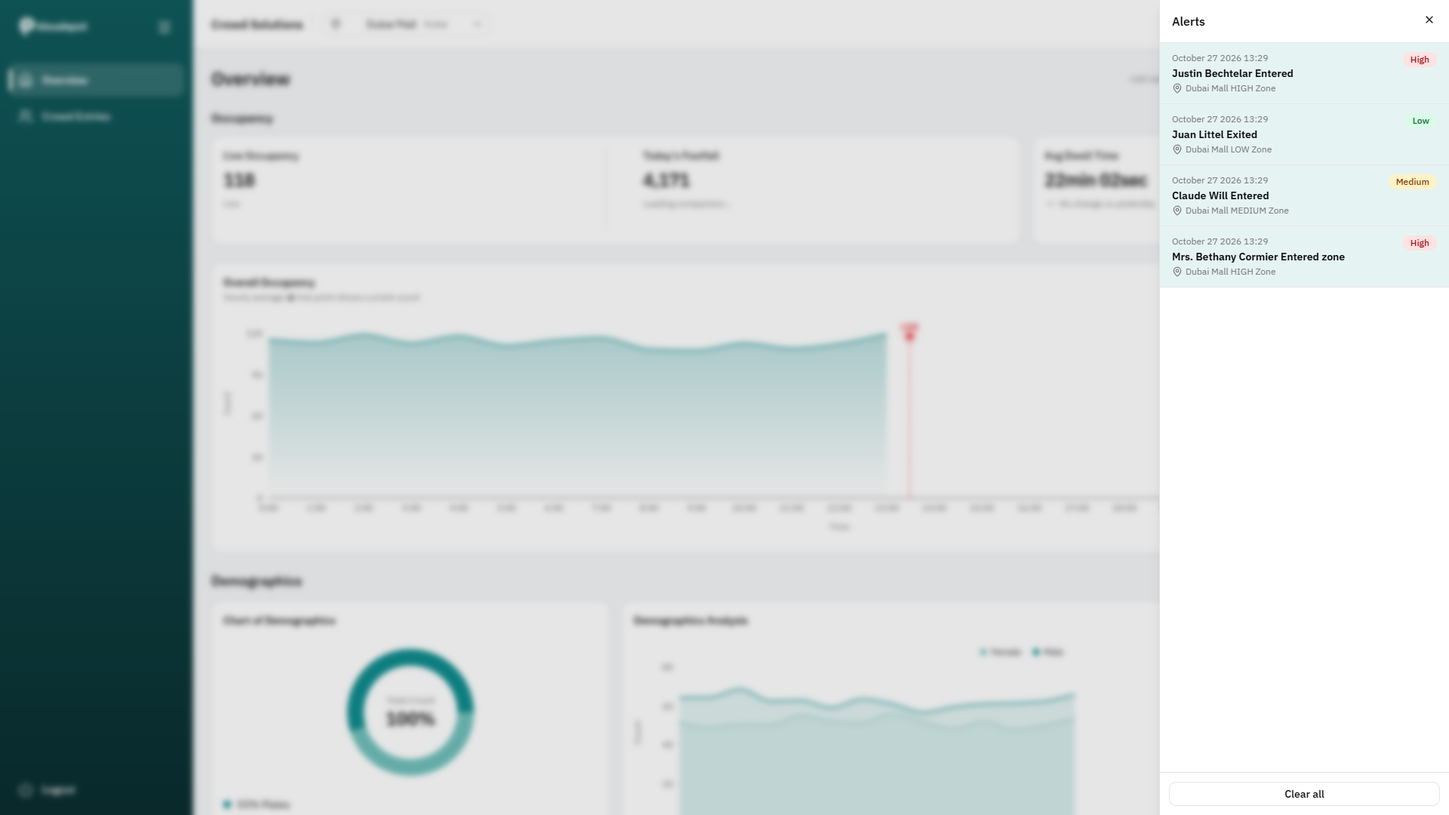
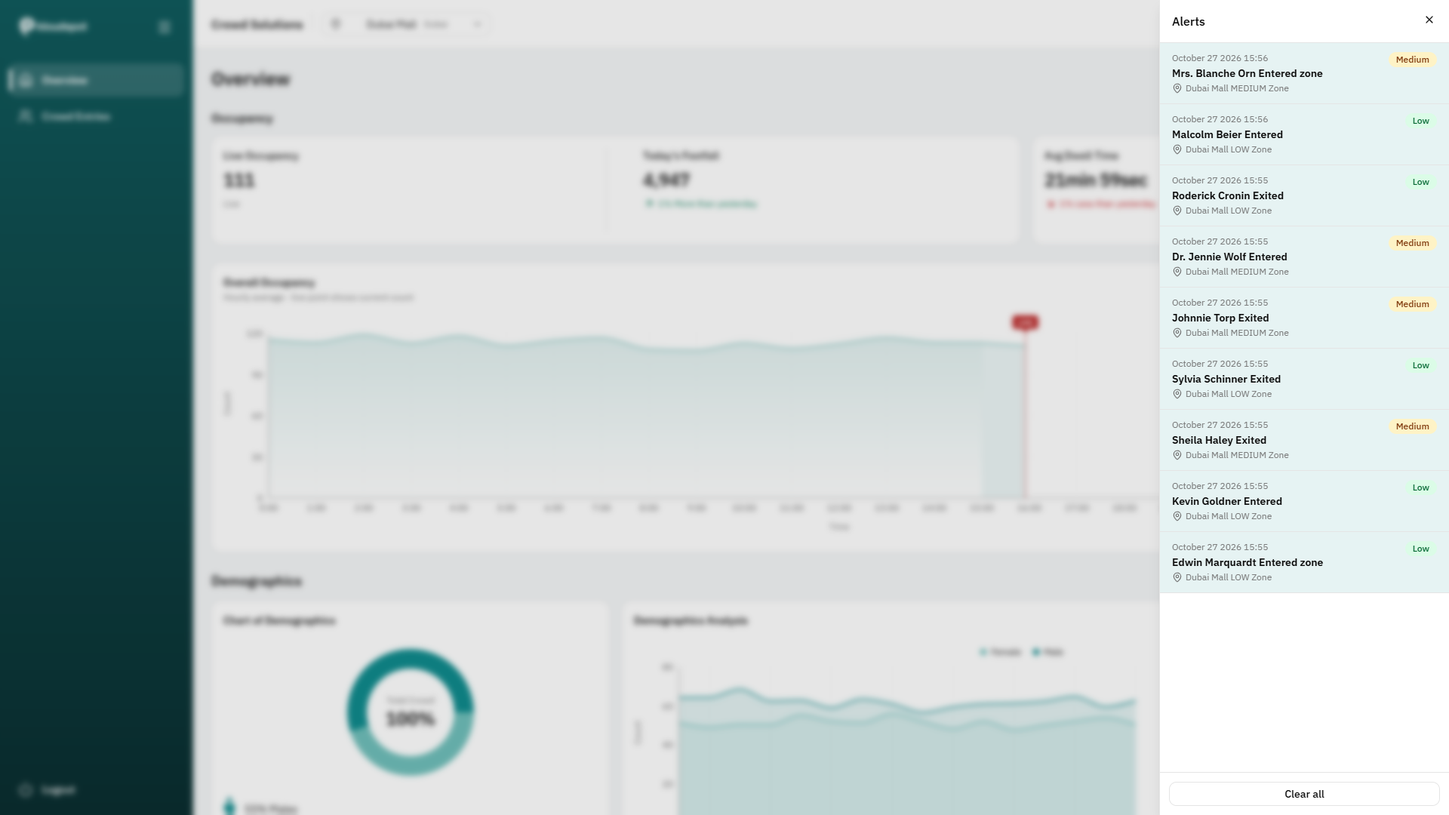
docs: add project screenshots and expand README documentation

diff --git a/README.md b/README.md
@@ -1,110 +1,327 @@
 # Crowd Management System
 
-A dashboard SPA for monitoring crowd occupancy, footfall, demographics and individual entries across sites, with a live Socket.IO layer for occupancy and alerts.
+A dashboard for watching how busy a set of sites is. It shows live occupancy, footfall and dwell time with comparisons against the previous period, a demographics breakdown, a paginated table of every entry and exit, and a stream of alerts that arrives over Socket.IO.
+
+Live demo: LIVE_URL_HERE
 
 | Login | Overview |
 | --- | --- |
-| ![Login](docs/login.png) | ![Overview](docs/overview.png) |
+| ![Login page](docs/login.png) | ![Overview page](docs/overview.png) |
 
-| Crowd Entries | Alerts drawer |
+| Crowd entries | Alerts drawer |
 | --- | --- |
-| ![Entries](docs/entries.png) | ![Alerts](docs/alerts.png) |
+| ![Crowd entries table](docs/entries.png) | ![Alerts drawer](docs/alerts.png) |
 
-**Live demo:** _not deployed yet._ `vercel.json` and `public/_redirects` are included, so a deploy to Vercel or Netlify works as-is (set `VITE_API_BASE_URL`).
+## What the assignment asked for and how I read it
 
-## Tech stack
+The scope was a login page, an overview dashboard, a crowd entries table and live alerts and occupancy through Socket.IO, all against an existing backend.
 
-| Concern | Choice | Why |
+A few requirements are easy to skim past, so I wrote down how I understood them:
+
+- The dashboard follows the API contract only. Every number on it comes from a response; nothing is computed from made-up data.
+- Live data must not be polled. The REST endpoints return history, and the socket carries what is happening now.
+- Every page except the login is protected, and every request except the login carries the JWT.
+- The stat cards show a comparison against the previous period ("more than yesterday"), so each card needs a second request for the previous range.
+- A visitor who is still inside has no exit time and no dwell time. The table shows a marker for that, not a zero.
+- Pagination has to be driven by the server. The API reports `totalRecords` and `totalPages`, and the client asks for one page at a time.
+
+## Tech stack and why
+
+| Area | Choice | Why |
 | --- | --- | --- |
-| UI | React 19 + TypeScript (strict) + Vite | fast dev loop, strict types catch contract drift |
-| Styling | Tailwind v4 + shadcn/ui (Radix) | accessible primitives, tokens as CSS variables |
-| Server state | TanStack Query | caching, de-duplication, `keepPreviousData` for pagination and filters |
-| Auth state | Redux Toolkit (auth only) | one small, predictable store for the session; all server data stays in Query |
-| Routing | React Router v7 | lazy routes, URL as the source of truth for filters |
-| Charts | Recharts via shadcn `chart` | lazy-loaded chunk |
-| Live data | socket.io-client | matches the backend |
-| Validation | zod | every API response and socket payload is validated at the boundary |
+| UI | React 19, TypeScript (strict), Vite | Fast feedback while building, and strict types catch API shape mistakes early. |
+| Styling | Tailwind CSS v4, shadcn/ui on Radix | Radix gives me focus handling, dialogs and selects that already behave correctly with a keyboard and a screen reader. I own the component code, so changing it is cheap. |
+| Routing | React Router 8 | Lazy routes and URL search params, which I use as the source of truth for filters. |
+| Server state | TanStack Query | Caching, de-duplicated requests, retry rules and `keepPreviousData` for pagination. |
+| Auth state | Redux Toolkit, auth only | The session is the one piece of global client state that several unrelated parts read. API data is deliberately kept out of Redux; see the decisions section. |
+| HTTP | Axios with interceptors | One place to attach the token and one place to react to a 401. |
+| Live data | socket.io-client | The backend speaks Socket.IO. |
+| Charts | Recharts through the shadcn chart wrapper | Gives me theme tokens and tooltip styling without writing SVG by hand. |
+| Forms and validation | react-hook-form, zod | zod validates the login form and every API response. |
+| Dates | `@date-fns/tz` and `Intl` | Time zone aware day boundaries, and display formatting without pulling in a formatter library. |
+| Smaller pieces | sonner (toasts), lucide-react (icons), jwt-decode | Toasts, icons and reading the token expiry. |
 
 ## Getting started
 
+Node 24 was used for development. I did not pin an `engines` field, so any current LTS should work.
+
 ```bash
-npm install            # .npmrc sets legacy-peer-deps (peer conflict in @hookform/resolvers)
-cp .env.example .env   # set VITE_API_BASE_URL (VITE_SOCKET_URL is optional)
-npm run dev            # http://localhost:5173
+npm install
+cp .env.example .env
+npm run dev
 ```
 
 Sign in with the credentials provided by the hiring team.
 
-| Script | Purpose |
+| Script | What it does |
 | --- | --- |
-| `npm run dev` | dev server |
-| `npm run build` | type-check + production build |
-| `npm run preview` | serve the production build |
+| `npm run dev` | Vite dev server on port 5173 |
+| `npm run build` | Type-check with `tsc -b`, then production build |
+| `npm run preview` | Serve the production build locally |
 | `npm run lint` | ESLint |
+| `npm run format` | Prettier |
 
-Environment variables: `VITE_API_BASE_URL` (required), `VITE_SOCKET_URL` (optional, defaults to the API origin).
+Environment variables:
+
+```bash
+VITE_API_BASE_URL=   # required, base URL of the REST API
+VITE_SOCKET_URL=     # optional, defaults to VITE_API_BASE_URL
+```
+
+`.npmrc` sets `legacy-peer-deps=true`. `@hookform/resolvers` declares a peer range that conflicts with the zod version I use, and the install fails without the flag. The setting is committed so a deploy does not hit the same error.
 
 ## Architecture
 
+### System overview
+
+```mermaid
+flowchart TD
+  Browser["Browser SPA"] --> Router["Router and route guards"]
+  Router --> Pages["Pages: Login, Overview, Entries"]
+  Pages --> Features["Feature modules: auth, sites and filters, analytics, entries, live"]
+
+  Features --> RQ["TanStack Query"]
+  Features --> Sock["Socket provider"]
+  Features --> Redux["Redux auth store"]
+
+  RQ --> Axios["Axios instance with JWT interceptor"]
+  Axios --> RestApi[("REST API")]
+  Sock --> SocketServer[("Socket.IO server")]
+
+  Sock --> LiveCache["Live occupancy in query cache"]
+  Sock --> Alerts["Alerts slice in Redux"]
+  Redux --> Axios
+  Redux --> Sock
+```
+
+### Auth flow
+
+```mermaid
+sequenceDiagram
+  participant U as User
+  participant App as App
+  participant API as REST API
+  U->>App: Open a protected page
+  App->>U: No token, redirect to login and remember the page as from
+  U->>App: Submit credentials
+  App->>API: POST login
+  API-->>App: Token
+  App->>App: Store token, start expiry timer
+  App->>U: Redirect to the remembered page
+  App->>API: Request with Authorization Bearer token
+  API-->>App: 401
+  App->>App: One logout: clear token and cache
+  App->>U: Redirect to login with from
+  Note over App: The expiry timer ends the session the same way
+```
+
+### Live data
+
+```mermaid
+flowchart LR
+  REST["REST: hourly occupancy history"] --> Chart["Occupancy chart"]
+  Socket["Socket events: live_occupancy and alert"] --> Filter["Keep events for the selected site"]
+  Filter --> Throttle["Write live total at most once per second"]
+  Throttle --> LiveCard["Live Occupancy card"]
+  Throttle --> Marker["Live marker on the chart"]
+  Filter --> AlertStore["Alerts store, newest first, capped at 50"]
+  AlertStore --> Bell["Bell count and alerts drawer"]
+```
+
+Nothing in the app polls. History comes from REST once per filter change, and everything live comes from the socket.
+
+### Folder structure
+
 ```
 src/
-  app/        providers, store, router, layout (sidebar, header, hotkeys)
-  config/     routes, navigation, date presets, hotkeys (single sources)
-  features/   auth | sites | filters | analytics | entries | live
-              each has components/, hooks/, api/, utils/ and an index.ts barrel
-  components/ shared presentational pieces + shadcn ui/
-  hooks/      generic hooks (media query, online status, hotkeys, CSV export)
-  lib/        http client + interceptors, query keys, date/format/csv utils
-  pages/      thin route components
+  app/          providers, store, router, layout (sidebar, header, shortcuts)
+  config/       route paths, nav items, date presets, hotkeys, assets
+  components/
+    ui/         shadcn/ui primitives
+    shared/     presentational pieces used by more than one feature
+  features/
+    auth/       login form, token handling, session, route guards
+    sites/      site list and the selector
+    filters/    site and range state, kept in the URL
+    analytics/  stat cards, occupancy and demographics charts
+    entries/    entries table, pagination state, CSV export
+    live/       socket provider, live occupancy feed, alerts bell and drawer
+  hooks/        small generic hooks (media query, online status, hotkeys)
+  lib/          http client, interceptors, query client and keys, date and format helpers
+  pages/        route components that only compose features
 ```
 
-Layers: `pages` compose `features`; features use `components/shared`, `hooks` and `lib`; components never call axios, only feature `api/` modules do.
+The rule I followed: a feature owns its API functions, hooks and components, `lib/` is generic infrastructure that knows nothing about features, and pages only compose.
 
-### Data flow
+### State management
 
-- **REST:** component -> feature hook (TanStack Query) -> `api/` module -> axios client -> zod-validated response -> mapper -> UI types.
-- **Live:** one `socket.io` connection (`SocketProvider`, mounted only in the protected layout). Events are parsed by `socketContract.ts` (the only file that knows the wire format).
-  - `live_occupancy` -> the site total is written to the query cache, throttled to one update per second. Only the Live Occupancy card and the chart's live point re-render.
-  - `alert` -> Redux alerts slice (newest first, capped at 50, deduped by `eventId`), shown in the bell and drawer.
-- **Auth:** login stores the JWT (Redux + `localStorage`). An axios interceptor adds `Authorization: Bearer`. A 401 on any request ends the session (store cleared, query cache cleared, redirect to login). A timer logs out at token expiry. Protected routes redirect to `/login`, and public routes redirect away when signed in. The socket is created from the token and torn down on logout.
-- **URL as state:** `?site=&range=&page=&size=`. Reloading or sharing a link restores the view.
+I kept four kinds of state apart on purpose.
+
+Server data lives in TanStack Query. Live data from the socket is written into the query cache (the occupancy total) or a small Redux slice (the alerts list). The session lives in Redux. Everything the user can change about what they are looking at, meaning the site, the date range, the page and the page size, lives in the URL (`?site=&range=&page=&size=`).
+
+I put filters in the URL so a refresh keeps the view, the back button steps through pages of the table, and a link can be shared and opens the same view.
+
+### API layer
+
+Each feature has an `api/` folder with small typed functions, and components never call Axios directly. Responses are validated with zod before anything else sees them. A single error normaliser (`lib/http/errors.ts`) turns any failure into an `ApiError` with a status and a readable message, and each widget shows its own error with a Retry button instead of taking the whole page down.
+
+### API integration
+
+| Method | Endpoint | Used for | Request body | Auth | Validated by |
+| --- | --- | --- | --- | --- | --- |
+| POST | `/api/auth/login` | Sign in | email and password | none | Token read by a hand-written check (`extractToken`) |
+| GET | `/api/sites` | Site list with time zone and zones | none | Bearer | zod normalisers in `features/sites/api/normalizers.ts` |
+| POST | `/api/analytics/footfall` | Footfall card | `siteId`, `fromUtc`, `toUtc` | Bearer | zod schema |
+| POST | `/api/analytics/dwell` | Average dwell card | `siteId`, `fromUtc`, `toUtc` | Bearer | zod schema |
+| POST | `/api/analytics/occupancy` | Hourly occupancy chart | `siteId`, `fromUtc`, `toUtc` | Bearer | zod schema |
+| POST | `/api/analytics/demographics` | Demographics charts | `siteId`, `fromUtc`, `toUtc` | Bearer | zod schema |
+| POST | `/api/analytics/entry-exit` | Entries table | same, plus `pageNumber` (1-based) and `pageSize` | Bearer | zod schema |
+
+Only the sites endpoint is a GET. Every analytics endpoint is a POST with a time range in epoch milliseconds.
+
+I used one Axios instance with interceptors so the Bearer header is attached in exactly one place, a 401 is handled in exactly one place, and every error leaves the HTTP layer in the same shape. The request interceptor skips the login call and rejects locally if there is no token. The response interceptor passes failures through the normaliser and calls a single unauthorized handler, which is de-duplicated so several in-flight 401s cause one logout. The default timeout is 15 seconds. The analytics calls use 40 seconds, because the backend answers them slowly and appears to queue them.
+
+Every response goes through a zod schema before the UI touches it. I worked out the contract by calling the backend, not from a spec I could trust, so I wanted a drift to show up as one clear message ("Received an unexpected response from the server") and not as a chart that throws on a missing field.
+
+### TypeScript approach
+
+`tsconfig.app.json` turns on `strict`, `noUncheckedIndexedAccess`, `noUnusedLocals`, `noUnusedParameters`, `erasableSyntaxOnly`, `noFallthroughCasesInSwitch` and `verbatimModuleSyntax`.
+
+API types come from the zod schemas with `z.infer`, so the runtime check and the compile-time type are the same definition and cannot drift apart. The UI uses its own models and maps API shapes to them in small pure functions (`features/analytics/utils/mappers.ts`, `features/entries/utils/mapEntry.ts`). Reusable components are generic where it matters (`DataTable<T>`, `ChartCard<TData>`, `QueryBoundary`) with typed props. Redux hooks are typed once in `app/hooks.ts`, and route paths and query keys come from `ROUTES` and a `queryKeys` factory so nobody retypes a string.
+
+In the source outside the generated shadcn files, the count of `any` is 0, of `@ts-ignore` 0 and of `@ts-expect-error` 0. There is one `eslint-disable`, for the `no-autofocus` rule on the first field of the login form, with the reason written next to it.
+
+### Component and hook reuse
+
+Shared building blocks that exist and where they are reused:
+
+- `DataTable` and `Pagination` (with `GoToPageForm` inside it) render the entries table and its pager.
+- `ChartCard` is the frame, loading state and error state for the occupancy chart and both demographics cards.
+- `StatCard`, `StatCardContainer` and `TrendIndicator` render each stat card, driven by a config list in `features/analytics/config/statCards.ts`.
+- `QueryBoundary` and `ErrorState` give every widget the same loading, error and retry behaviour.
+- `FilterSelect` backs the site selector, the date range selector and the rows-per-page selector.
+- `SeverityBadge` and `InitialsAvatar` appear in the entries table, and the badge is also used in the alerts drawer.
+- `RefreshButton`, `ExportButton` and `PageHeader` are small shared pieces.
+- `useAnalyticsQuery` is the one place that sets query options for all four analytics hooks, `useFilters` is read by 17 files, and `useSocketEvent` is how both live feeds subscribe.
+
+The rule I followed: presentational components take props and render, containers compose hooks, components never call Axios, logic lives in hooks, and lists such as navigation, date presets and stat cards come from config arrays.
 
 ## Key decisions and trade-offs
 
-- **Token in localStorage:** survives reloads, but is readable by any XSS. Mitigations: no `dangerouslySetInnerHTML`, validated inputs, the token is never logged, and short-lived expiry is enforced client-side. An httpOnly cookie would be better but needs backend support.
-- **Redux only for auth** (and small live UI state: the alerts list). Server data is never copied into Redux.
-- **Site time zone for days:** "Today" and "Yesterday" are evaluated in the selected site's IANA zone, not the browser's, so Dubai "today" is the same for everyone.
-- **Server pagination:** the API paginates; the client requests one page at a time and prefetches only the next.
-- **Memoisation where it matters:** hourly chart series are memoised and the live layer is separate, so socket updates do not re-render the chart or other cards. Alert list items are `memo`.
-- **Intl instead of date-fns format** for display, which keeps ~20 kB out of the bundle.
+**Time zone for "today".** Each site has an IANA time zone, and "today", "yesterday" and "last 7 days" are computed as day boundaries in that zone (`startOfSiteDay` in `lib/utils/date.ts`, using `TZDate`), then sent as UTC epoch milliseconds. If I used the browser's zone, a person in one country looking at a site in another would see a day that starts and ends at the wrong hours, and the same link would show different numbers on two machines. The cost is that the date selector shows the site's zone beside it, so the user knows which clock applies.
+
+**Hourly history plus one live marker.** The occupancy chart is hourly REST history. The live value comes from the socket and is drawn as a single "now" marker on the Today view, with a short connector from the last hourly point so the line does not stop short. I did not mix the two sources in one series and I did not poll the REST endpoints to fake a live feed, because those endpoints are slow, can be rate limited and are history by design. The live point is derived on the fly and is never written into the hourly data or the cache.
+
+**Socket instead of polling.** There is one connection, created only inside the protected layout, authenticated through the handshake, and torn down on logout. The server broadcasts every site's events, so the client filters by `siteId`. Live occupancy writes to the cache at most once per second. If the socket is down, REST data is unaffected, the Live Occupancy card falls back to the last hourly value with an "Hourly avg" caption, and the header shows "Reconnecting" or "Offline". When the connection comes back a toast says so.
+
+**Server-driven pagination.** The pager has previous, next, a numbered window with the first and last page, and a jump-to-page box behind the ellipsis. Page and size are in the URL. I prefetch only the next page after the current one has loaded, because entries take several seconds per page and prefetching more would queue requests behind the one the user is waiting for. Row keys combine person, entry time and zone, because the same person appears many times.
+
+**JWT in localStorage.** The API returns the token in the response body, so an httpOnly cookie was not available without a backend change. A token in `localStorage` can be read by any script that runs on the page, which makes XSS the main risk. What I did about it: no `dangerouslySetInnerHTML` in my own code (the shadcn chart wrapper uses it once, to inject colour variables from static config), every response and input validated, the token never logged or put in a URL, a client-side expiry timer, one global logout on a 401, and only an in-app path is accepted as the post-login redirect.
+
+**Comparison queries run after the primary ones.** The "than yesterday" indicators need a second range for footfall and dwell. The backend is slow and seems to process requests one after another, so firing all of them at once makes the cards wait behind the comparison. The comparison queries are enabled only after the current footfall and dwell have settled. A failed comparison removes only the trend line, not the card.
+
+**Redux only for auth.** I did not put API data in Redux because TanStack Query already owns caching, staleness and retries, and copying that into a store means keeping two copies in sync. The session is different: it is not fetched, several unrelated parts read it, and the token has side effects (storage, an expiry timer, the socket). The alerts list is also in Redux because it is live UI state and not something the server can be asked for again.
+
+## Performance and optimization
+
+**Code splitting.** `LoginPage`, `OverviewPage`, `EntriesPage` and `NotFoundPage` are `React.lazy` in `app/router.tsx`, with a `PageSkeleton` fallback. The app shell (`AppLayout`, with the sidebar, header and socket provider) is a lazy route as well, so the login page does not download it. Recharts is kept out of the initial load: `OccupancyChart`, `DemographicsChart` and `DemographicsDonut` are lazy, and `ChartCard` shows a chart-shaped skeleton while they load. The alerts drawer is lazy and is fetched the first time the bell is used. In the initial bundle on purpose: React, the router, TanStack Query, Radix (the login page uses it), Axios and zod, and Redux Toolkit.
+
+**Bundling.** `vite.config.ts` splits vendor code into groups so an app change does not invalidate cached libraries: `vendor-react`, `vendor-router`, `vendor-tanstack`, `vendor-radix` and `vendor-socket`. I did not give Recharts a group, because when I did the bundler pulled it into the initial preload. Vite also prints a warning that `advancedChunks` is deprecated in favour of `codeSplitting`; the option still works and I have not migrated it yet.
+
+Sizes from the current production build:
+
+| Chunk | Size | Gzip |
+| --- | --- | --- |
+| `vendor-react` | 218.75 kB | 68.27 kB |
+| `client` (Axios, zod and shared HTTP code) | 141.23 kB | 44.83 kB |
+| `vendor-radix` | 115.82 kB | 37.00 kB |
+| `vendor-router` | 94.56 kB | 30.91 kB |
+| `LoginPage` | 43.04 kB | 15.60 kB |
+| `index` (app entry) | 42.99 kB | 13.20 kB |
+| `vendor-socket` (lazy, with the app shell) | 41.16 kB | 12.85 kB |
+| `vendor-tanstack` | 34.94 kB | 10.23 kB |
+| Recharts chunk (lazy) | 274.03 kB | 82.51 kB |
+| `OverviewPage` (lazy) | 12.67 kB | 4.31 kB |
+| `EntriesPage` (lazy) | 15.57 kB | 5.89 kB |
+| `AlertsDrawer` (lazy) | 2.43 kB | 1.17 kB |
+
+The files `index.html` preloads add up to about 224 kB gzipped. For context, earlier in development the single main chunk was 685 kB, and it was about 501 kB after the live layer was added. Recharts at 274 kB (82 kB gzipped) is the largest piece, and it only loads on the Overview page.
+
+**Prefetching.** Hovering or focusing a sidebar link loads that page's chunk (`prefetchRoute` in `app/routeModules.ts`), so the first click does not wait on a download. The app shell chunk is not prefetched. The entries table prefetches only the next page.
+
+**Query caching.** The defaults in `lib/queryClient.ts` are a 30 second `staleTime`, no refetch on window focus, and retries only for network errors and 5xx responses, at most twice. Analytics queries use `staleTime: 0` with `refetchOnMount: 'always'`, are enabled only when the filters are ready, and do not keep previous data: when the site or range changes the cards and charts show skeletons, never numbers from the range the user just left. If the same range was loaded before, its cached data shows immediately while it refreshes. Entries keep the previous page while the next one loads. The site list is cached for ten minutes.
+
+**Render performance.** I did not wrap things in `memo` by habit. Where it is used:
+
+- The three chart components are `memo`, with their data, ticks and formatters in `useMemo` or `useCallback`, and their config objects and tooltip content at module scope, so a re-render of the parent does not rebuild the chart.
+- `DataTable`, `Pagination`, `EntriesToolbar` and `StatCardContainer` are `memo`, and their props are stable (columns in `useMemo`, handlers from `useCallback` or stable hook returns).
+- `AlertListItem` is `memo` and keyed by `eventId`, so one new alert does not re-render the list.
+- The socket context value is memoised.
+- The `select` functions of the analytics queries are `useCallback` so their results are not recomputed every render.
+
+I removed `memo` from small components such as the severity badge and avatar once I saw it bought nothing. I did not run the React profiler, so I can describe the design but not quote a measured render count. The design is that the live value reaches only the Live Occupancy card and the chart's live layer: the live feed writes a throttled value, `useIsLive` only changes when live data starts or stops, and the chart marker reads the value in its own small component outside the memoised chart.
+
+**Network behaviour.** The Overview load makes one request for sites and six for data: four analytics calls (footfall, dwell, occupancy, demographics) and two comparison calls (footfall and dwell for the previous range). The Entries page makes one entries request and then prefetches the next page. From what I observed, one analytics call takes about 1.5 to 3.5 seconds and one entries page about 3.5 to 4.8 seconds. The six Overview calls fired together finish in roughly 15 seconds, which is why those calls use the longer timeout.
+
+## UX and accessibility
+
+These exist in the code:
+
+- A skip link to the main content, and focus moves to the page heading when the route changes.
+- Visible focus rings, and a drawer that traps focus, closes on Escape and returns focus to the bell.
+- Keyboard shortcuts (`g o`, `g e`, `b`, `?`) that are ignored while typing in a field.
+- `aria-current` on the active nav item and the current page, and `aria-disabled` on pagination buttons so focus is not lost at the first and last page.
+- Charts are exposed as images with a text summary, plus a screen-reader-only data table. The live value is an extra row in that table.
+- Data tables have captions, and the stat labels use `dl`.
+- Polite live regions: the connection status, a pagination page announcement, and a summary of new alerts that is limited to once every five seconds.
+- Severity and trends always carry a text label, so colour is never the only signal.
+- `prefers-reduced-motion` is respected in CSS and in chart animation.
+- Every widget has a loading state, an empty state and an error state with Retry, and an offline banner appears when the browser reports it is offline.
+
+The layout is built for desktop first. I checked widths from 390 to 1920 pixels for horizontal overflow, and the page itself does not scroll sideways at any of them. On narrow screens the navigation moves into a sheet and the Zone column is hidden.
+
+## Error handling
+
+| Condition | What the user sees |
+| --- | --- |
+| No connection or timeout | "Can't reach the server. Check your connection and try again." |
+| 400 or 422 | "The request was invalid." |
+| 401 | Session cleared, a toast says the session expired, redirect to login |
+| 403 | "You don't have permission to do that." |
+| 404 | "We couldn't find what you were looking for." |
+| 429 | "Too many requests. Please wait a moment and try again." |
+| 5xx | "Something went wrong on our side. Please try again." |
+| Response fails zod validation | "Received an unexpected response from the server." |
+| Login with wrong credentials | "Invalid email or password." |
+
+A server-provided `message` or `errorMessage` is used when present. Each widget shows its error in place with a Retry button, so one failing request does not blank the page.
 
 ## API notes
 
-- Analytics endpoints are `POST` with `{ siteId, fromUtc, toUtc }` (epoch ms); entries add `pageNumber` (1-based) and `pageSize`.
-- Latency is high: each analytics call takes ~1.5-3.5 s and calls look serial, so the Overview's six requests take up to ~15 s. Slow calls use a 40 s timeout; comparison queries start after the primary ones.
-- There is no logout endpoint (`/api/auth/logout` returns 404), so logout is client-side.
-- Socket: same origin as the API; auth via the handshake `auth: { token }`; no subscribe emit; events `alert` and `live_occupancy` (`sim:event` mirrors `alert` and is ignored). Observed about 70 `alert` and 50 `live_occupancy` events per minute across all sites.
+- All analytics bodies use `{ siteId, fromUtc, toUtc }` in epoch milliseconds. The entries response carries `pageNumber`, `pageSize`, `totalRecords`, `totalPages` and `records`. A record with no `exitUtc` and no `dwellMinutes` is a visitor who is still inside.
+- `GET /api/sites` returns a bare array. Each site has an id, name, city, time zone and a list of zones.
+- Socket: auth goes in the handshake as `auth: { token }`. A Bearer header also works; a token in the query string is rejected. No subscribe or join message is needed. The events used are `alert` and `live_occupancy`. The server also sends `sim:event`, which mirrors `alert`, and the client ignores it. Because the server broadcasts every site, filtering by `siteId` happens in the client. I saw roughly 70 alerts and 50 occupancy events per minute across all sites combined.
+- There is no logout endpoint (`/api/auth/logout` returns 404), so logging out only clears the token and the cache in the browser.
+- The health endpoint requires a token even though the documentation lists it as public.
+- Latency is covered in the performance section.
 
-## Accessibility
+## Deployment
 
-Skip link to `<main>`; focus moves to the page heading on route change; visible focus rings; icon-only buttons have names; data tables have captions; charts are `role="img"` with a text summary plus a screen-reader data table (including the live value); pagination uses `aria-disabled` so focus is never lost; the alerts drawer traps focus, closes on Esc and returns focus to the bell; the live announcer is throttled; severity and connection state are never colour-only; `prefers-reduced-motion` is respected. An axe-core run (WCAG 2.1 AA + best practices) on login, overview, alerts drawer, shortcuts dialog and entries found one contrast issue (login button), which is fixed. Keyboard shortcuts: `g o`, `g e`, `b`, `?`.
+The app is a static build, meant for Vercel. Set `VITE_API_BASE_URL` (and `VITE_SOCKET_URL` if the socket lives somewhere else) in the project settings. `vercel.json` rewrites every path to `index.html`, and `public/_redirects` does the same for Netlify, so opening or refreshing `/entries` directly does not return a 404.
 
-## Performance
+## Known limitations and what I would do next
 
-- Pages, the app shell, the alerts drawer and the chart code are lazy chunks; vendor chunks (react, router, tanstack, radix, socket) are split for caching.
-- The login path loads about 213 kB gzip of JS (the app shell, socket client and Recharts are not loaded there).
-- Before this phase the single main chunk was 501.7 kB (159 kB gzip) with the shell eagerly included; it is now 271 kB (85 kB gzip) plus cached vendor chunks.
-- The Entries route is prefetched on sidebar hover/focus.
-- Lighthouse could not be run in this environment (headless Edge failed under the CLI); run `npx lighthouse http://localhost:4173 --preset=desktop` against `npm run preview` to record scores.
+- No automated tests were written, since they were outside the assignment's scope. I checked behaviour by hand and with throwaway browser scripts. Coverage for the zod schemas, the date range helpers and the alerts reducer is what I would add first.
+- The token is in `localStorage`. With a backend that can set an httpOnly cookie I would move to that.
+- I have no Lighthouse scores. Running it against the preview build did not work in my environment, so I make no performance score claims.
+- I never ran the React profiler, so the render isolation is by design and not measured. Profiling a socket event and a page change is the next check.
+- The initial load is about 224 kB gzipped, and Radix is part of it because the login page uses it. Trimming it needs the login page to avoid those primitives.
+- The Vite `advancedChunks` option is deprecated and should move to `codeSplitting`.
+- The design has a language chip and user photos in the header that I did not build, and I kept a Zone column in the entries table that the design omits.
+- Dark mode is not built, because a number of components use fixed colours.
+- If the live value is higher than every hourly value, the connector on the occupancy chart can be clipped at the top of the chart.
+- On mobile, the navigation sheet can reopen after the window is resized across the breakpoint.
 
-## Known limitations
+## What is in `docs/`
 
-- Dark mode is not implemented (several components use fixed colours).
-- Header language chip and avatars from the Figma are not built.
-- The Zone column and the "Crowd Entries" title are kept although the Figma differs slightly.
-- The mobile navigation sheet can reopen after a resize across the breakpoint.
-- There is no automated test suite yet.
-
-## What I would do next
-
-httpOnly cookie auth, an automated test suite (unit and end-to-end), a loading-progress UI for the slow analytics calls, per-zone live occupancy, Lighthouse CI, and dark mode.
+Four screenshots used above: `login.png`, `overview.png`, `entries.png` and `alerts.png`. They show generated visitor names and initials only.
